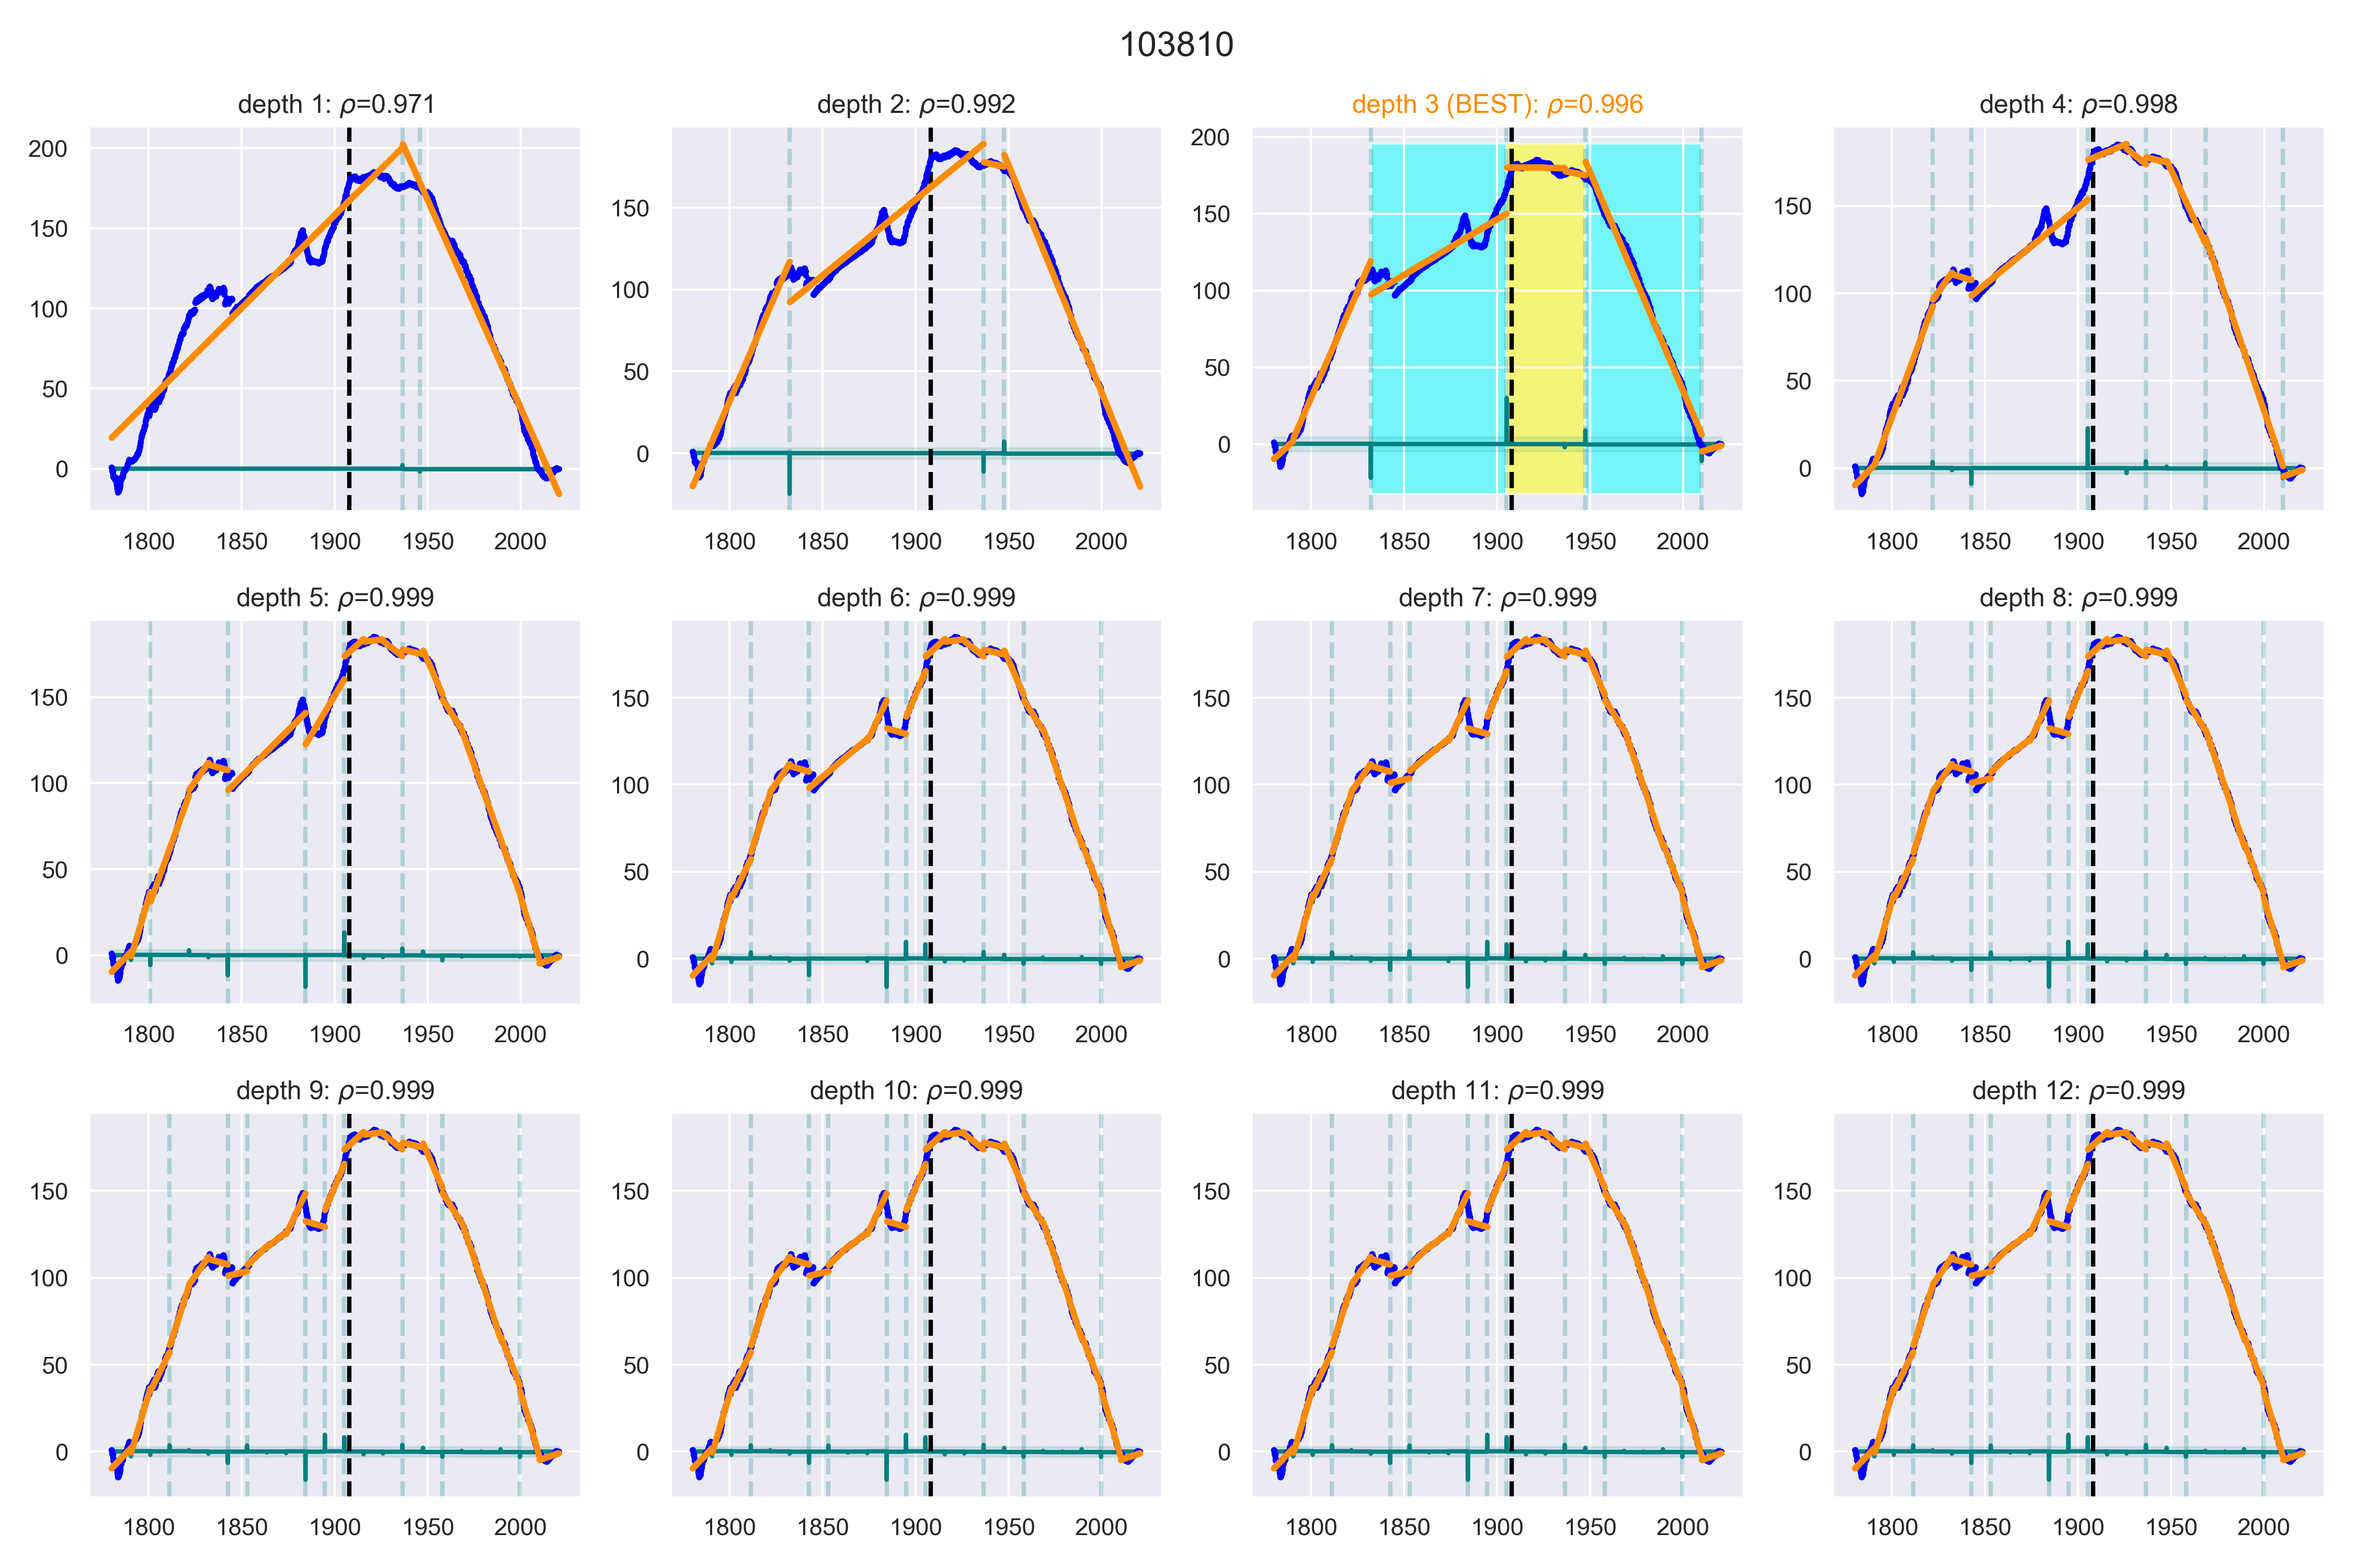
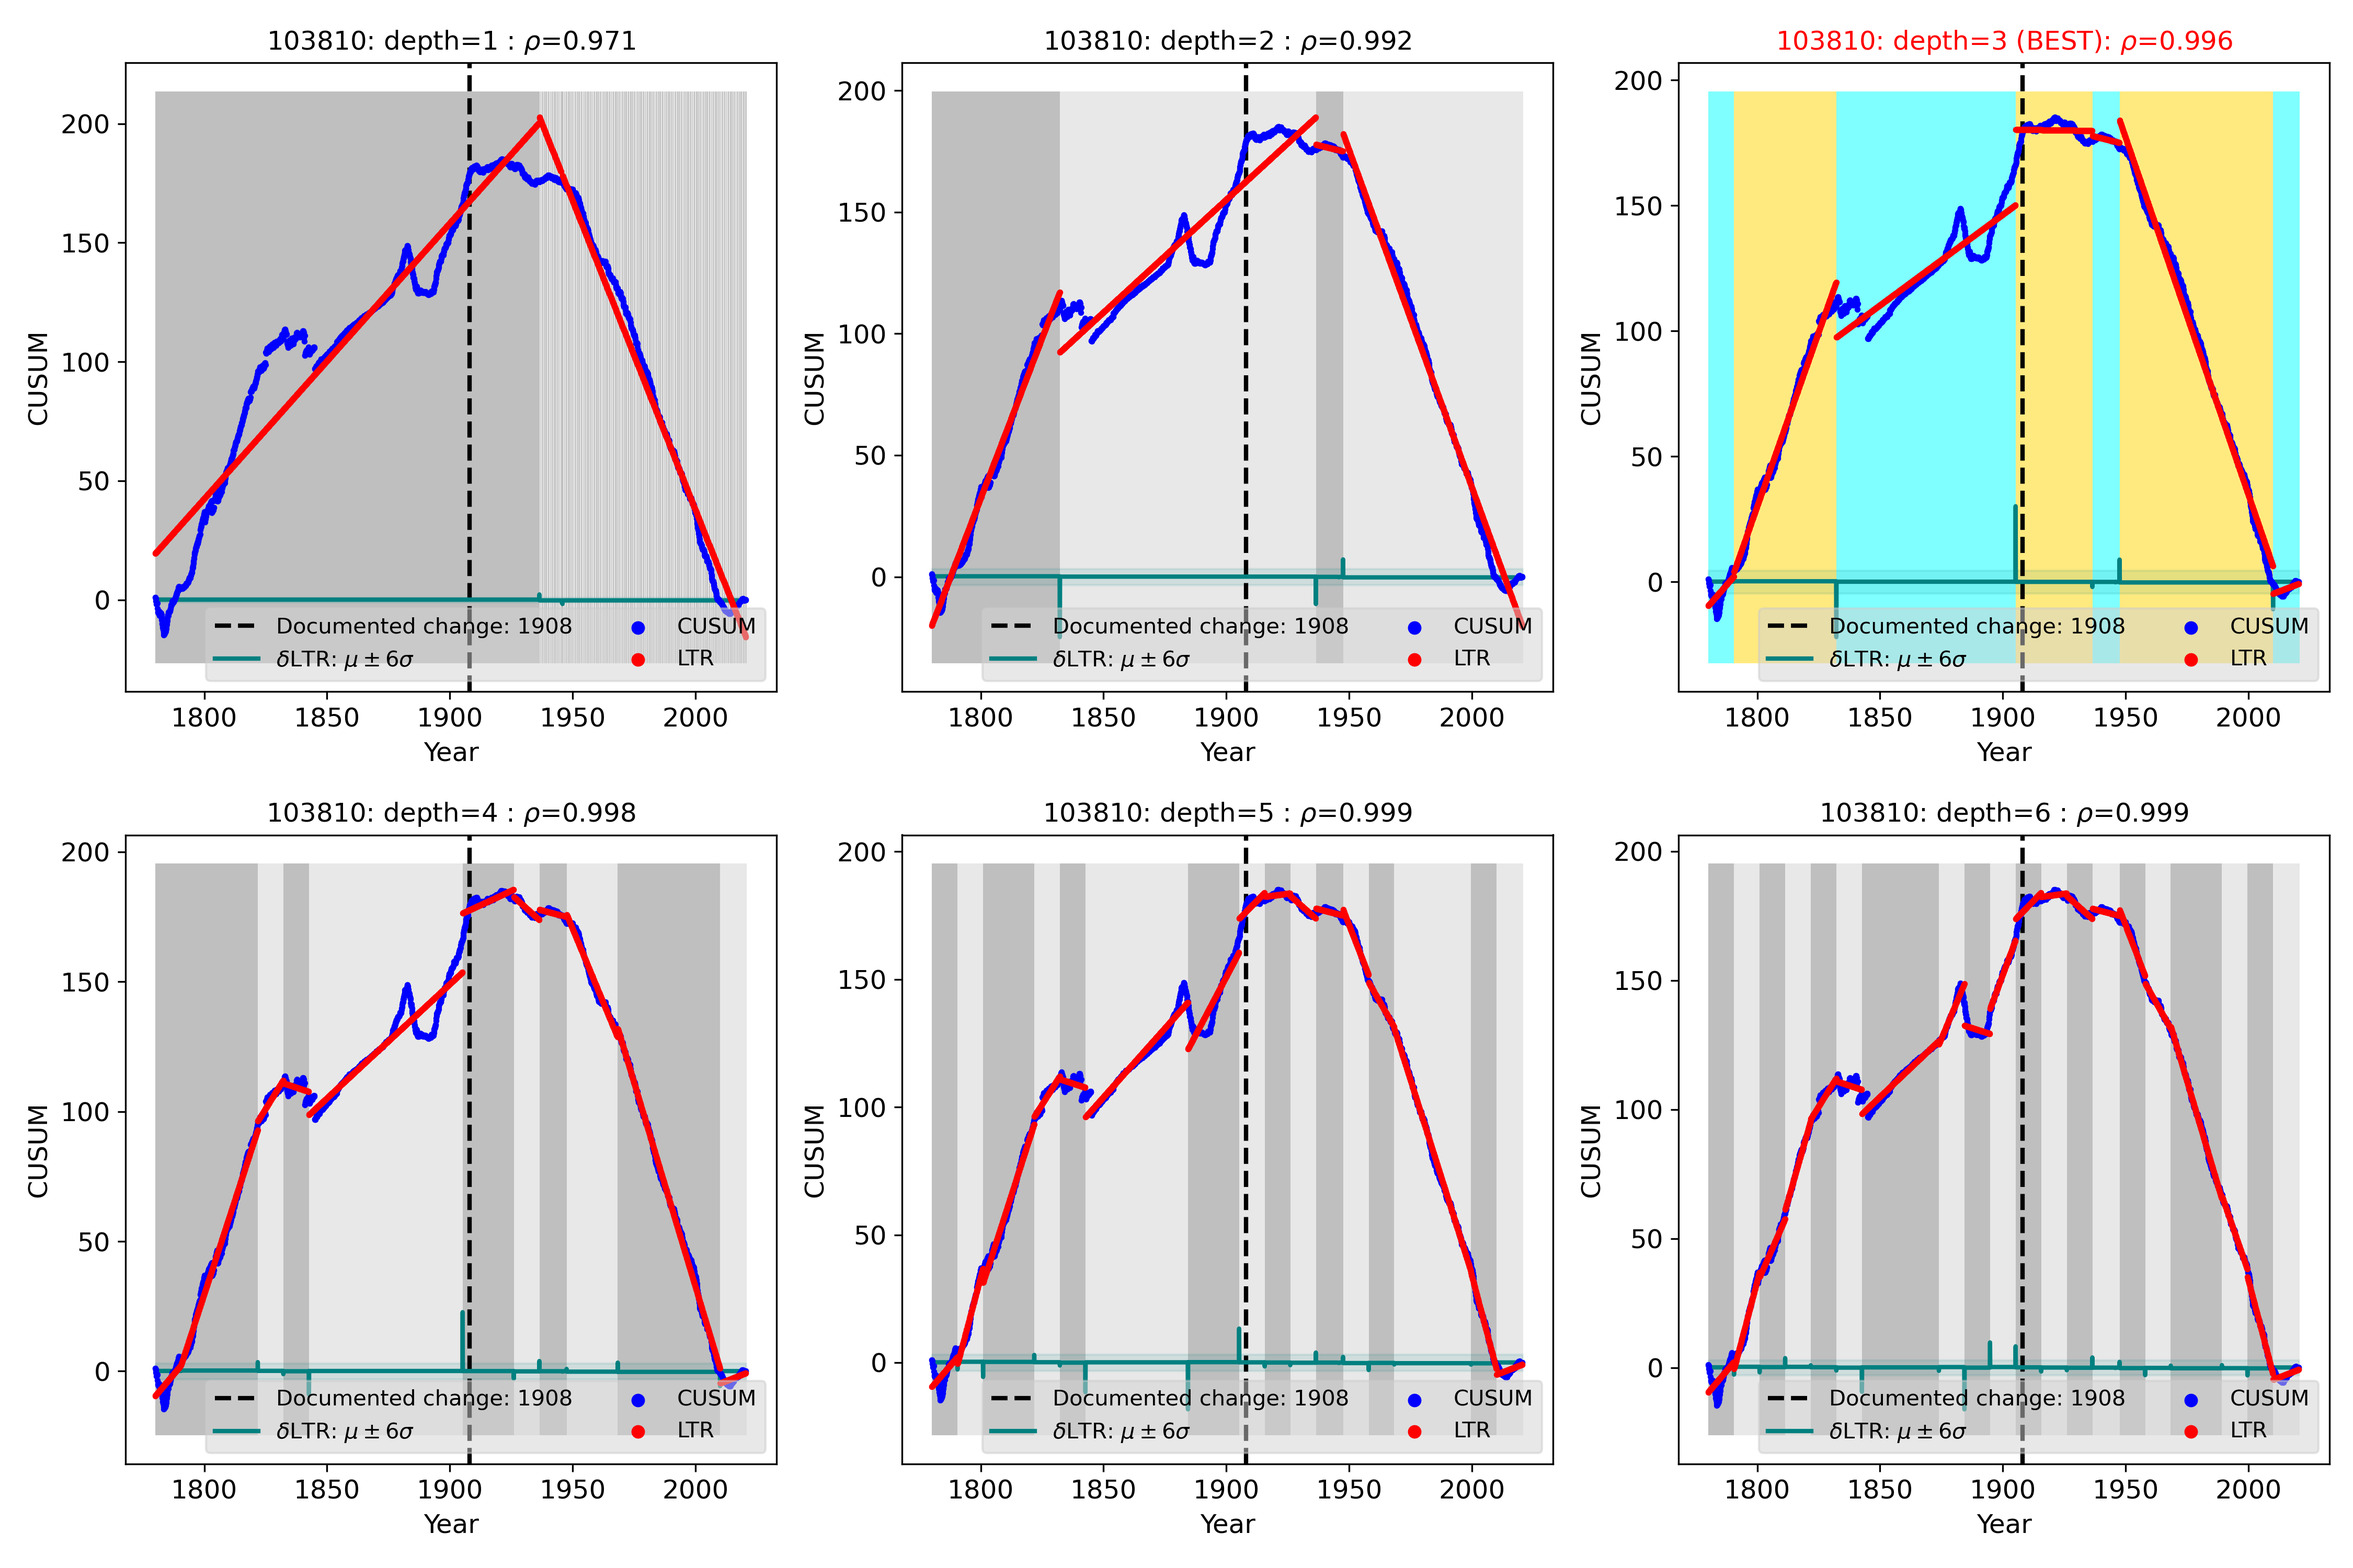
Added slope detection routine as option

diff --git a/linear_tree_regression.py b/linear_tree_regression.py
@@ -75,20 +75,21 @@ clf.fit(X, y)
 
 min_samples_leaf = 100
 max_bins = 24
-max_depth = 12 # in range [1,20]
+max_depth = 6 # in range [1,20]
 max_r_over_rmax = 0.995 
+use_slope = False
 
-fontsize = 16
+fontsize = 12
 plot_cusum = False
 plot_correlation = True
 
-stationcode = '037401' # HadCET
+#stationcode = '037401' # HadCET
 #stationcode = '103810'     # Berlin-Dahlem (breakpoint: 1908)
-#stationcode = '685880'     # Durban/Louis Botha (breakpoint: 1939)
+stationcode = '685880'     # Durban/Louis Botha (breakpoint: 1939)
 
-documented_change = np.nan
+#documented_change = np.nan
 #documented_change = 1908
-#documented_change = 1939 
+documented_change = 1939 
 
 filename = 'DATA/cusum_' + stationcode + '_obs.csv'
 
@@ -120,7 +121,7 @@ def linear_regression_ols(x,y):
     # regr = TheilSenRegressor(random_state=42)
     # regr = RANSACRegressor(random_state=42)
     
-    X = x.values.reshape(len(x),1)
+    X = x.reshape(len(x),1)
     t = np.linspace(X.min(),X.max(),len(X)) # dummy var spanning [xmin,xmax]        
     regr.fit(X, y)
     ypred = regr.predict(t.reshape(-1, 1))
@@ -145,10 +146,9 @@ df = pd.read_csv(filename, index_col=0)
 x = df.index.values
 y = df.cu.values
 mask = np.isfinite(y)
-nx = len(df)
-x = np.arange(nx) / nx
-x = x[mask].reshape(-1, 1)
-y = y[mask].reshape(-1, 1)
+x_obs = np.arange( len(y) ) / len(y)
+x_obs = x_obs[mask].reshape(-1, 1)
+y_obs = y[mask].reshape(-1, 1)	
 
 #------------------------------------------------------------------------------
 # FIT: linear tree regression (LTR) model
@@ -169,17 +169,16 @@ for depth in range(1,max_depth+1):
         min_samples_leaf = min_samples_leaf,
         max_bins = max_bins,
         max_depth = depth
-    ).fit(x, y)            
-    y_fit = lt.predict(x)    
-       
-    X = y_fit.reshape(-1,1)
-    Y = y
-    mask_ols = np.isfinite(X) & np.isfinite(Y)
-    corrcoef = scipy.stats.pearsonr(X[mask_ols], Y[mask_ols])[0]
-    R2adj = adjusted_r_squared(X,Y)
+    ).fit(x_obs, y_obs)            
+    y_fit = lt.predict(x_obs)    
+    Y = y_obs
+    Z = y_fit.reshape(-1,1)
+    mask_ols = np.isfinite(Y) & np.isfinite(Z)
+    corrcoef = scipy.stats.pearsonr(Y[mask_ols], Z[mask_ols])[0]
+    R2adj = adjusted_r_squared(Y,Z)
     r.append(corrcoef)
     r2adj.append(R2adj)    
-
+               
 r_diff = [0.0] + list(np.diff(r))
 max_depth_optimum = np.arange(1,max_depth+1)[np.array(r/np.max(r)) > max_r_over_rmax][1] - 1
 
@@ -228,51 +227,100 @@ for depth in range(1,max_depth+1):
         min_samples_leaf = min_samples_leaf,
         max_bins = max_bins,
         max_depth = depth        
-    ).fit(x, y)    
-
+    ).fit(x_obs, y_obs)    
+    y_fit = lt.predict(x_obs)           
+    y_fit_diff = [0.0] + list(np.diff(y_fit))
+    
     # FIT: decision tree regressor
 
     # dr = DecisionTreeRegressor(   
     #    max_depth = depth
     # ).fit(x, y)
     # x_fit = dr.predict(x)
+ 
+    # BREAKPOINT: detection
+        
+    breakpoints_all = x[mask][ np.abs(y_fit_diff) >= np.abs(np.nanmean(y_fit_diff)) + 1.0*np.abs(np.nanstd(y_fit_diff)) ][0:]
+    breakpoints_idx = np.arange(len(x[mask]))[ np.abs(y_fit_diff) >= np.abs(np.nanmean(y_fit_diff)) + 1.0*np.abs(np.nanstd(y_fit_diff)) ][0:]        
 
-    y_fit = lt.predict(x)            
-    y_fit_diff = [0.0] + list(np.diff(y_fit))
+    if use_slope == True:
         
-    breakpoints = df.index[mask][ np.abs(y_fit_diff) >= np.abs(np.nanmean(y_fit_diff)) + 6.0*np.abs(np.nanstd(y_fit_diff)) ][0:]
+        slopes = []
+        for j in range(len(breakpoints_all)+1):
+            if j == 0:            
+                xj = x[mask][ 0:breakpoints_idx[0] ]
+                yj = y[mask][ 0:breakpoints_idx[0] ]
+            elif j == len(breakpoints_all):                   
+                xj = x[mask][ breakpoints_idx[-1]: ] 
+                yj = y[mask][ breakpoints_idx[-1]: ]
+            elif (j>0) & (j<(len(breakpoints_all))):               
+                xj = x[mask][ breakpoints_idx[j-1]:breakpoints_idx[j] ]
+                yj = y[mask][ breakpoints_idx[j-1]:breakpoints_idx[j] ]
+            t, ypred, slope, intercept = linear_regression_ols(xj,yj)
+            slopes.append(slope)     
+        dslopes = np.diff(slopes)        
+        breakpoints = breakpoints_all[ (np.abs(dslopes) > 0.5) ]
+
+    else:
         
+        breakpoints = breakpoints_all
+            
     plt.subplot(nr, nc, depth)
-    plt.scatter(df.index[mask], y, s=3, c='blue', zorder=3)
-    plt.scatter(df.index[mask], y_fit, s=3, c='darkorange', zorder=4)
-    for i in range(len(breakpoints)):
-        plt.axvline(x=breakpoints[i], ls='--', lw=2, color='teal', alpha=0.25, zorder=1)        
-    plt.fill_between(df.index[mask], 
+    plt.axvline(x=documented_change, ls='--', lw=2, color='black', label='Documented change: ' + str(documented_change) )     
+    plt.scatter(x[mask], y[mask], s=3, c='blue', zorder=3, label='CUSUM')
+    plt.scatter(x[mask], y_fit, s=3, c='red', zorder=4, label='LTR')
+#    for i in range(len(breakpoints)):
+#        plt.axvline(x=breakpoints[i], ls='--', lw=2, color='teal', alpha=0.25, zorder=1)        
+    plt.fill_between(x[mask], 
              np.abs(np.nanmean(y_fit_diff)) + 6.0*np.abs(np.nanstd(y_fit_diff)), 
              np.abs(np.nanmean(y_fit_diff)) - 6.0*np.abs(np.nanstd(y_fit_diff)), 
              ls='-', lw=1, color='teal', alpha=0.1, zorder=1)
-    plt.plot(df.index[mask], [np.nan] + list(np.diff(y_fit)), ls='-', lw=2, color='teal', zorder=2)
-    plt.axvline(x=documented_change, ls='--', lw=2, color='black')
+    plt.plot(x[mask], [np.nan] + list(np.diff(y_fit)), ls='-', lw=2, color='teal', zorder=2,  label=r'$\delta$LTR: ' + r'$\mu\pm6\sigma$')
 
     ylimits = plt.ylim()    
 
     if depth == max_depth_optimum:
-
+        
         df_breakpoints = pd.DataFrame({'breakpoint':breakpoints})
         df_breakpoints.to_csv(stationcode + '-' + 'breakpoints.csv')
 
-        plt.title('depth ' + str(depth) + r' (BEST): $\rho$=' + str(np.round(r[depth-1],3)), color='darkorange', fontsize=12)   
-        
+        plt.title('depth ' + str(depth) + r' (BEST): $\rho$=' + str(np.round(r[depth-1],3)), color='red', fontsize=12)           
         for j in range(len(breakpoints)):        
             if (j%2 == 0) & (j<len(breakpoints)-1):
-                plt.fill_betweenx(ylimits, breakpoints[j], breakpoints[j+1], facecolor='cyan', alpha=0.5, zorder=0)
-            elif (j%2 != 0) & (j<len(breakpoints)-1):
-                plt.fill_betweenx(ylimits, breakpoints[j], breakpoints[j+1], facecolor='yellow', alpha=0.5, zorder=0)        
+                plt.fill_betweenx(ylimits, breakpoints[j], breakpoints[j+1], facecolor='gold', alpha=0.5, zorder=0)
+            elif (j%2 != 0) & (j<len(breakpoints)-1):        
+                plt.fill_betweenx(ylimits, breakpoints[j], breakpoints[j+1], facecolor='cyan', alpha=0.5, zorder=0)         
+            if j == 0:              
+                plt.fill_betweenx(ylimits, x[mask][0], breakpoints[j], facecolor='cyan', alpha=0.5, zorder=0)         
+            if (j == len(breakpoints)-1) & (j%2 == 0):              
+                plt.fill_betweenx(ylimits, breakpoints[j], x[-1], facecolor='gold', alpha=0.5, zorder=0)         
+            if (j == len(breakpoints)-1) & (j%2 != 0):              
+                plt.fill_betweenx(ylimits, breakpoints[j], x[-1], facecolor='cyan', alpha=0.5, zorder=0)   
+
+        plt.title( stationcode + ': depth=' + str(depth) + r' (BEST): $\rho$=' + str(np.round(r[depth-1],3)), color='red', fontsize=fontsize)           
 
     else:
-        plt.title('depth ' + str(depth) + r': $\rho$=' + str(np.round(r[depth-1],3)))    
+        plt.title( stationcode + ': depth=' + str(depth) + r' : $\rho$=' + str(np.round(r[depth-1],3)), color='black', fontsize=fontsize)           
+        for j in range(len(breakpoints)):        
+            if (j%2 == 0) & (j<len(breakpoints)-1):
+                plt.fill_betweenx(ylimits, breakpoints[j], breakpoints[j+1], facecolor='lightgrey', alpha=0.5, zorder=0)
+            elif (j%2 != 0) & (j<len(breakpoints)-1):        
+                plt.fill_betweenx(ylimits, breakpoints[j], breakpoints[j+1], facecolor='grey', alpha=0.5, zorder=0)         
+            if j == 0:              
+                plt.fill_betweenx(ylimits, x[mask][0], breakpoints[j], facecolor='grey', alpha=0.5, zorder=0)         
+            if (j == len(breakpoints)-1) & (j%2 == 0):              
+                plt.fill_betweenx(ylimits, breakpoints[j], x[-1], facecolor='lightgrey', alpha=0.5, zorder=0)         
+            if (j == len(breakpoints)-1) & (j%2 != 0):              
+                plt.fill_betweenx(ylimits, breakpoints[j], x[-1], facecolor='grey', alpha=0.5, zorder=0)           
                
-plt.suptitle(stationcode, fontsize=fontsize)
+
+    plt.legend(loc='lower right', ncol=2, markerscale=3, facecolor='lightgrey', framealpha=0.5, fontsize=10)       
+    plt.tick_params(labelsize=fontsize)    
+    plt.xlabel('Year', fontsize=fontsize)
+    plt.ylabel('CUSUM', fontsize=fontsize)
+    fig.tight_layout()
+
+#plt.suptitle(stationcode, fontsize=fontsize)
 fig.tight_layout()
 plt.savefig(figstr, dpi=300)
 plt.close('all')    
